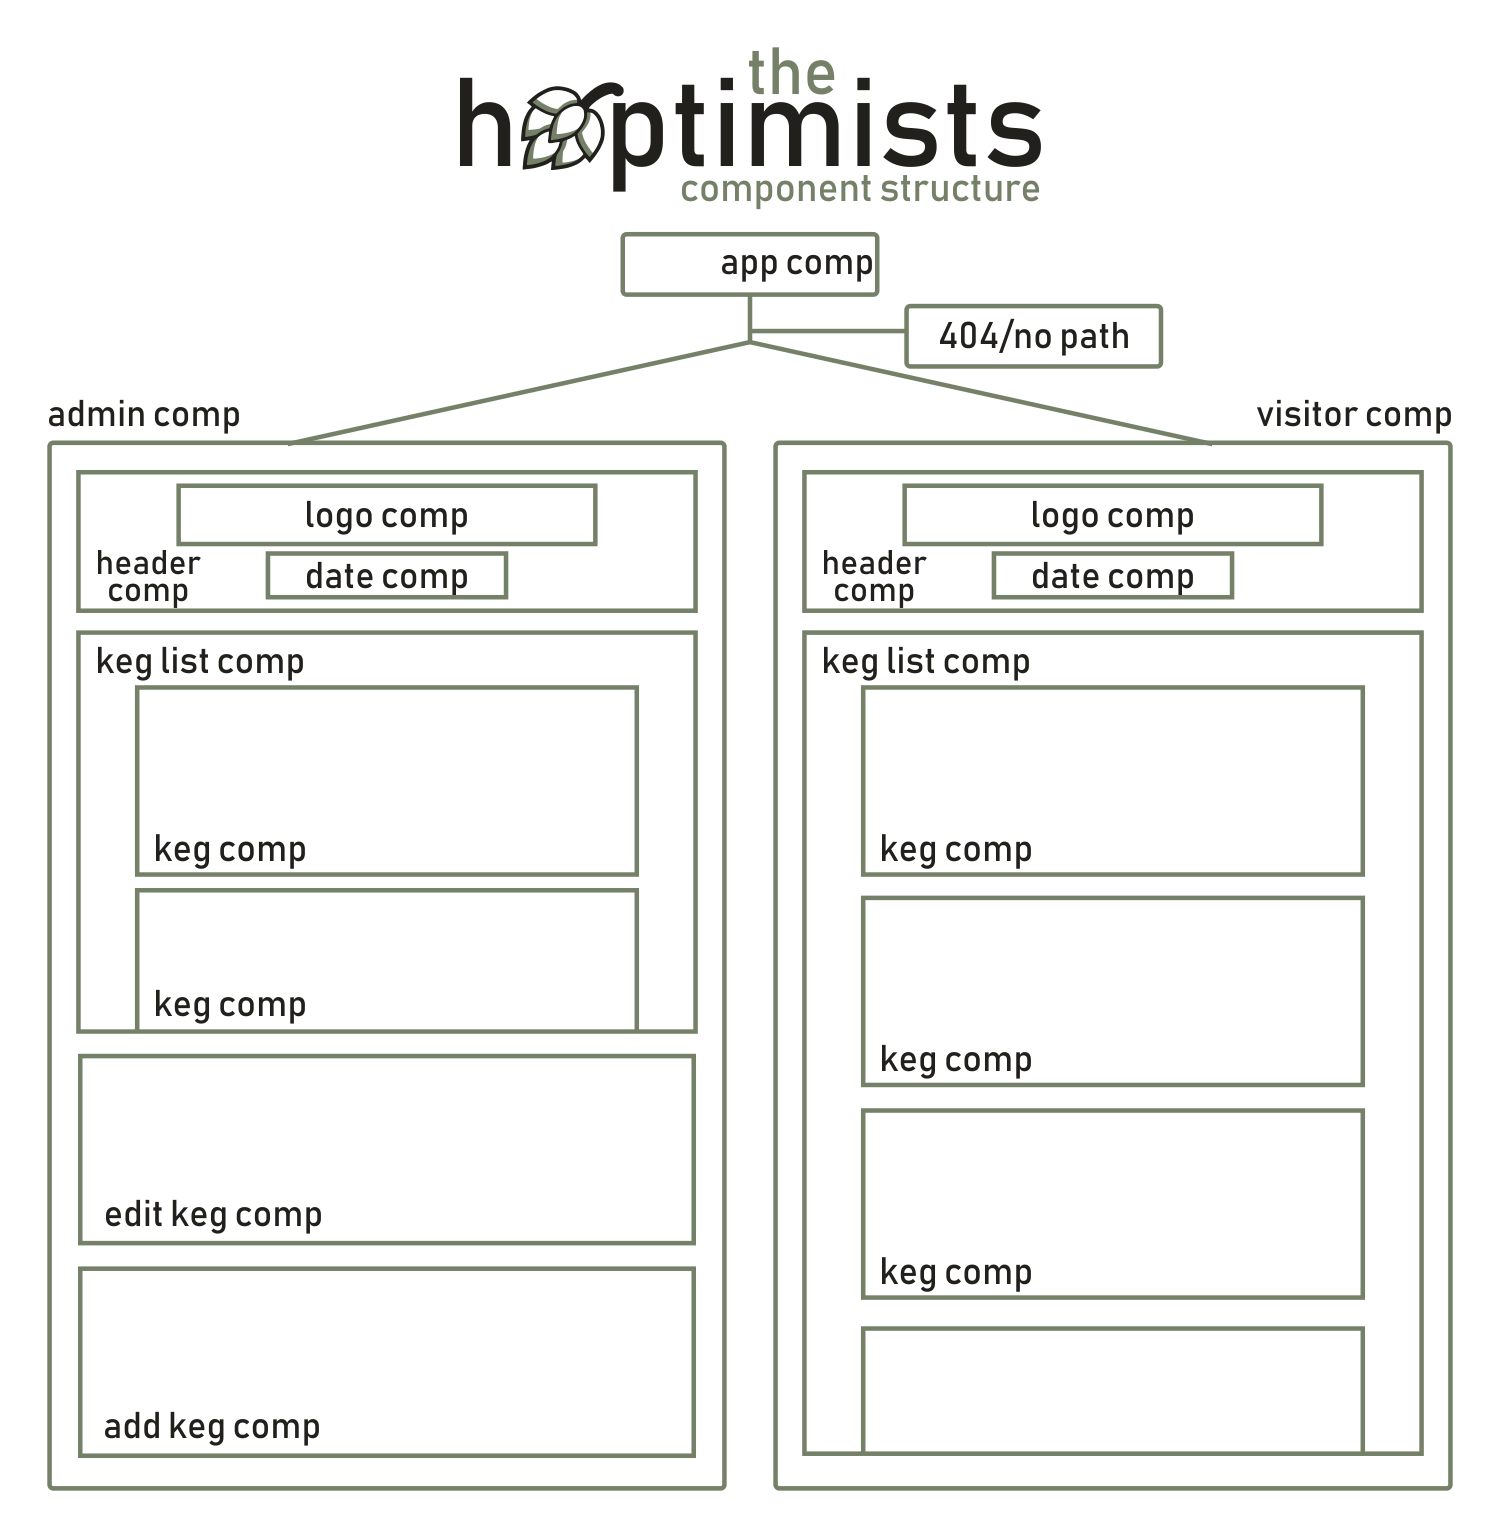
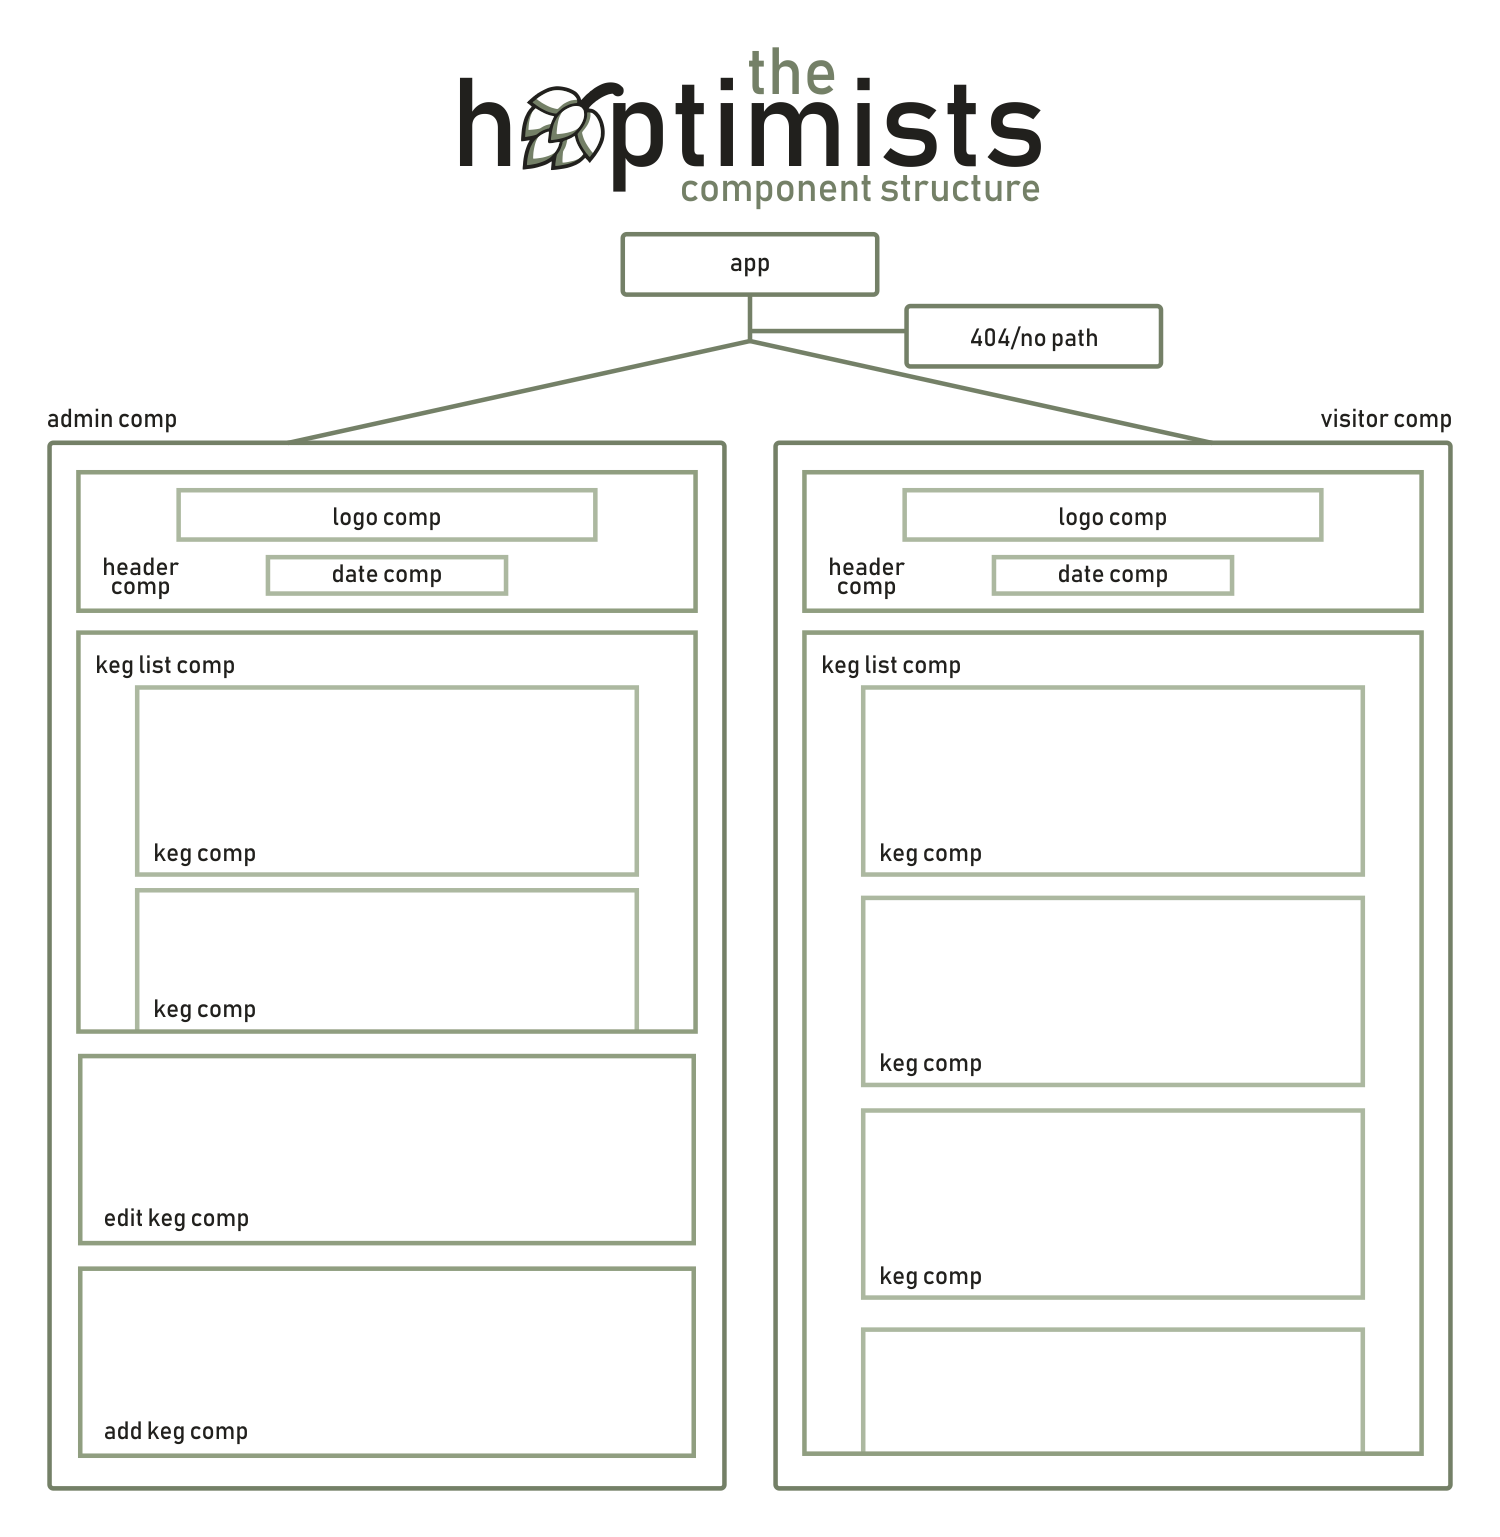
add in a few small styling changes

diff --git a/src/components/Admin.jsx b/src/components/Admin.jsx
@@ -4,8 +4,11 @@ import AddKeg from './AddKeg';
 import EditKeg from './EditKeg';
 
 function Admin() {
+  const adminContainerStyles = {
+    marginBottom: '70px'
+  }
   return(
-    <div>
+    <div style={adminContainerStyles}>
       <KegList/>
       <EditKeg/>
       <AddKeg/>

diff --git a/src/components/KegList.jsx b/src/components/KegList.jsx
@@ -87,7 +87,8 @@ function KegList() {
     marginRight: 'auto',
     marginTop: '20px',
     width: '80%',
-  }
+    marginBottom: '70px'
+    }
 
   return(
     <div style={kegListStyles}>
